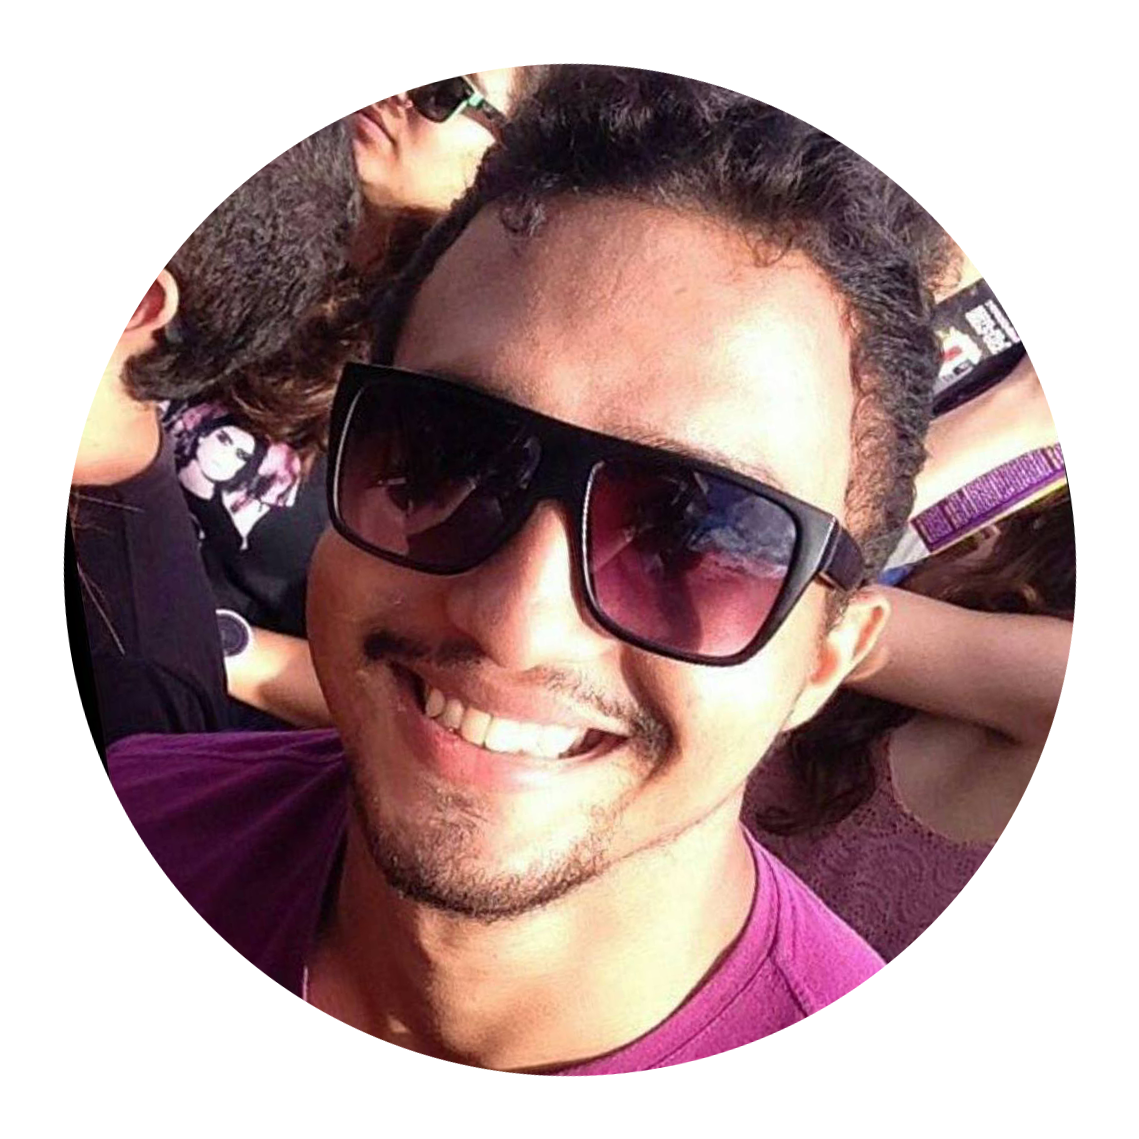
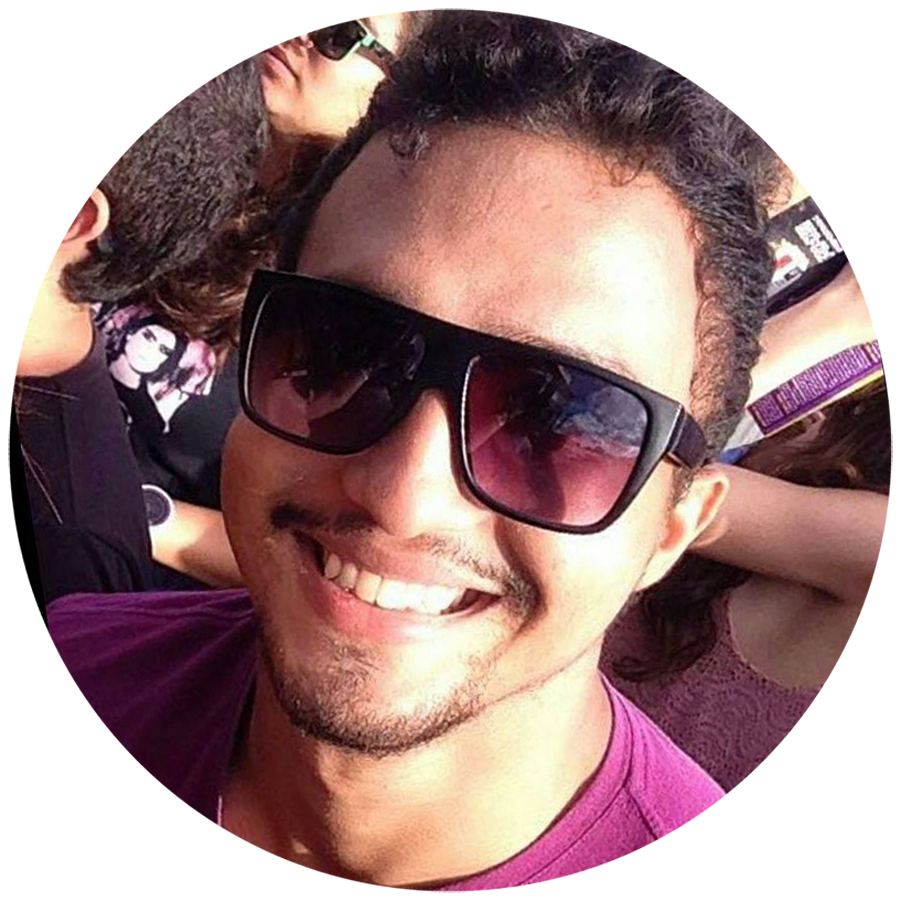
Atualização do responsivo AboutMe

diff --git a/index.html b/index.html
@@ -134,19 +134,21 @@
                 <div class="slider-inner">
                     <div class="slide slide_1">
                         <img class="slide-left" src="./assets/eu.png" alt="Mateus Sabadim" title="Mateus Sabadim">
-                        <p class="slide-right">Meu nome é Mateus Sabadim e estou em busca de ingressar no mercado de tecnologia e atuar como desenvolvedor Front-end.<br>
+                        <p>Meu nome é Mateus Sabadim e estou em busca de ingressar no mercado de tecnologia e atuar como desenvolvedor Front-end.<br>
                             Entusiasta na área, estou focado nos estudos de linguagens e aplicações que façam com que eu atenda aos requisitos deste segmento. </p>
                     </div>
                     <div class="slide slide_2">
-                        <iframe src="https://www.google.com/maps/embed?pb=!1m18!1m12!1m3!1d2187.1781544429764!2d-43.3069303998259!3d-22.788359235236374!2m3!1f0!2f0!3f0!3m2!1i1024!2i768!4f13.1!3m3!1m2!1s0x997aec76cc2155%3A0xb789989a6b0ca63c!2sUniversidade%20Unigranrio%20%7C%20Afya!5e0!3m2!1spt-BR!2sbr!4v1686664385805!5m2!1spt-BR!2sbr" width="600" height="300" style="border:0; margin: 30px;" allowfullscreen="" loading="lazy" referrerpolicy="no-referrer-when-downgrade"></iframe>
-                        <p class="slide-right">Natural e residente do Rio de Janeiro, me formei em Administração de Empresas pela UNIGRANRIO em 2018. Hoje, busco transição de carreira.</p>
+                        
+                        <iframe src="https://www.google.com/maps/embed?pb=!1m18!1m12!1m3!1d2187.1781544429764!2d-43.3069303998259!3d-22.788359235236374!2m3!1f0!2f0!3f0!3m2!1i1024!2i768!4f13.1!3m3!1m2!1s0x997aec76cc2155%3A0xb789989a6b0ca63c!2sUniversidade%20Unigranrio%20%7C%20Afya!5e0!3m2!1spt-BR!2sbr!4v1686664385805!5m2!1spt-BR!2sbr" width="900" height="900" style="border:0" allowfullscreen="" loading="lazy" referrerpolicy="no-referrer-when-downgrade">
+                        </iframe>                      
+                        <p>Natural e residente do Rio de Janeiro, me formei em Administração de Empresas pela UNIGRANRIO em 2018. Hoje, busco transição de carreira.</p>
                     </div>
                     <div class="slide slide_3">
                         <img src="./assets/linguagens.png" class="slide-left" alt="Linguagens: HTML, CSS e Javascript" title="Linguagens: HTML, CSS e Javascript">
-                        <p class="slide-right">Pleno conhecimento em linguagens como HTML, CSS e Javascript (usadas na criação desta landing page). Uso o GitHub como repositório de meus projetos e estou estudando Bootstrap e React JS para utiliza-los nos próximos</p>
+                        <p>Pleno conhecimento em linguagens como HTML, CSS e Javascript (usadas na criação desta landing page). Uso o GitHub como repositório de meus projetos e estou estudando Bootstrap e React JS para utiliza-los nos próximos</p>
                     </div>
                     <div class="slide slide_4">
-                        <img src="./assets/pc.png" class="slide-left last-slide-img">
+                        <img src="./assets/pc.png" class="slide-left">
                         <div class="last-slide">
                             <p>Realizo diversos trabalhos de Design Gráfico e suporte de informática para amigos e familiares. Atualmente, invisto em cursos de programação e me mantenho informado sobre as tecnologias que o mercado de trabalho demanda. Abaixo, você pode conferir meu currículo.</p>
                             <a href="./CurrIculo.pdf" download>Download Currículo</a>

diff --git a/css/style.css b/css/style.css
@@ -245,7 +245,6 @@
     .last-slide{
         display: flex;
         flex-direction: column;
-        padding-top: 50px;
     }
 
     .last-slide a {
@@ -355,9 +354,6 @@
             margin-bottom: 30px;
         }
 
-        iframe {
-            height: 200px;
-        }
     }
     /*Fim dos Estilos para telas de 1280px a 769px*/
     
@@ -419,6 +415,7 @@
         #contacts {
             padding: 30px 5% ;
         }
+
         .hamburguer {
             display: block;
         }
@@ -489,8 +486,8 @@
             width: 100%;
         }
 
-        #slides {
-            font-size: calc(1.5em + 1vw);
+        #slides, .slide a {
+            font-size: 5vw;
         }
 
         .slide {
@@ -498,16 +495,15 @@
         }
 
         .slide-left {
-            padding: 5%;
-            width: 100%;
-        }
-
-        .last-slide-img {
-            margin: 0;
+            width: 50vw;
+            padding: 0;
+            margin: 0 15vw 20px 15vw;
         }
 
         iframe {
-            width: 90%
+            width: 50vw;
+            height: 50vw;
+            margin: 0 15vw 20px 15vw;
         }
 
         #control-left, #control-right {
@@ -517,7 +513,7 @@
         #bullets label {
             width: 3vw;
             height: 3vw;
-            margin-right: 50px;
+            margin-right: 10vw;
         }
     }
     /* Fim dos Estilos para telas de 768px em diante (smartphones)*/
